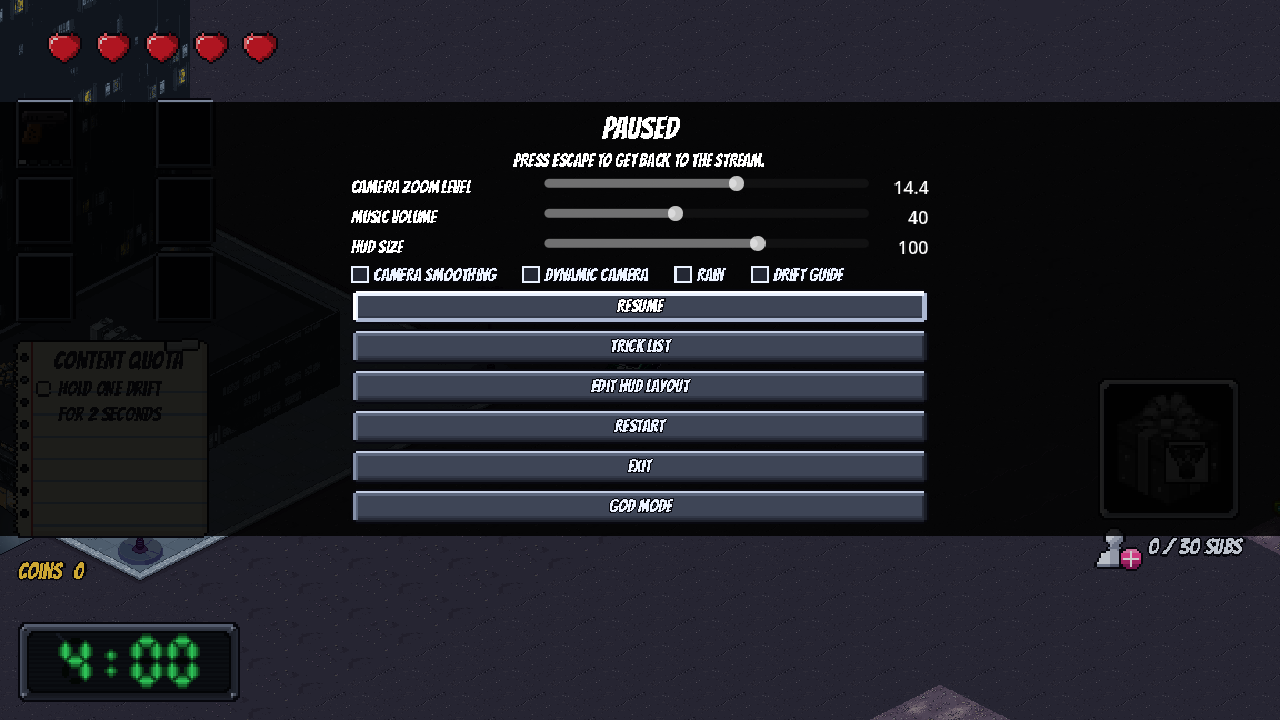
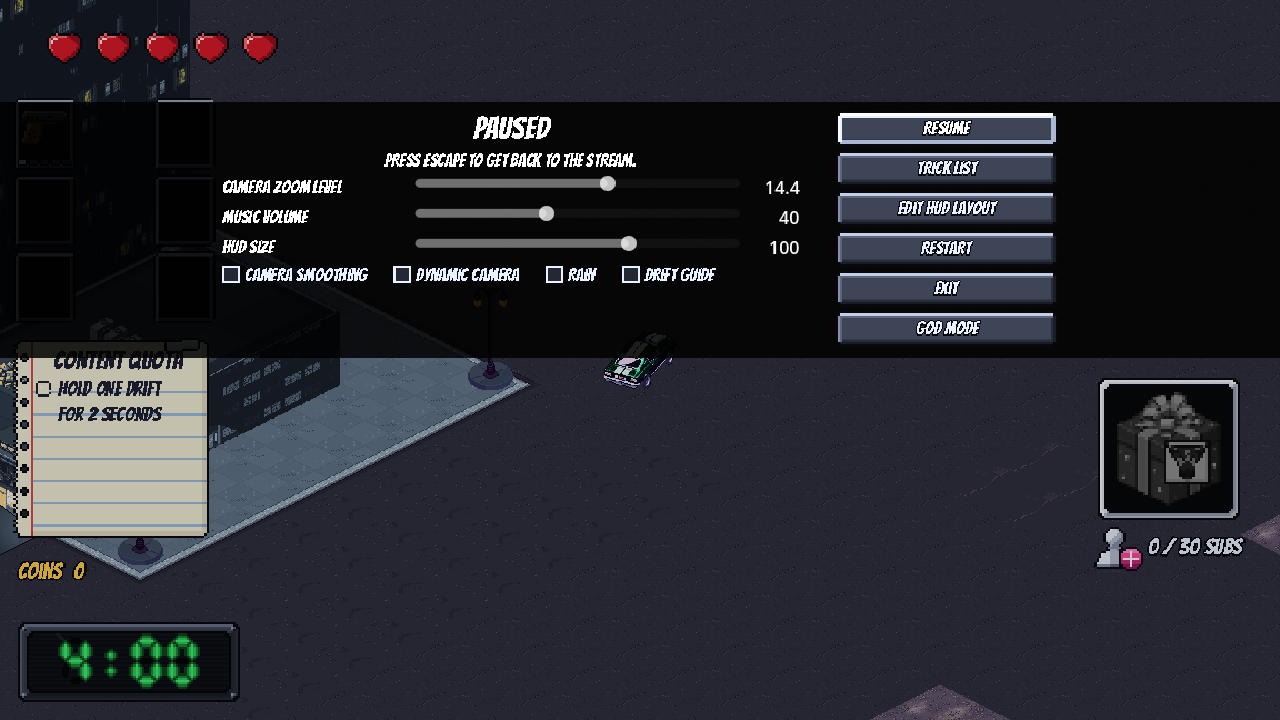
T-537: button column beside the settings, shared-button count 12
Claude-Session: https://claude.ai/code/session_01N2d996YFpSovFyvGmo19CZ

diff --git a/docs/hud-and-menus.md b/docs/hud-and-menus.md
@@ -232,7 +232,7 @@ Tasks T-015, T-093, T-095 and T-124. Escape pauses the whole game and shows the 
 - **Rain checkbox** (T-508; Level design, Decisions, "Rain over the map"): a third checkbox, "Rain" (`rain_label` in `data/pause_text.json`, T-506), in the same row after "Dynamic camera". It shows the saved `rain_enabled` (off by default, T-510), switches the rain over the map at once and saves the choice. The pause screen is the game's only settings screen (the main menu has none), so it is the only place it appears.
 - **Drift Guide checkbox** (T-516; Decisions, "A Drift Guide checkbox"): the label "Drift Guide" (`drift_guide_label` in `data/pause_text.json`), the board's own words, on a fourth checkbox in the pause screen's settings row after "Rain" (T-518, built: `drift_guide_check` in `pause_screen.gd`; it shows the saved `drift_guide_enabled`, off by default, and ticking it saves the choice and switches the guide at once through `GameSettings.notifier`; keyboard and mouse like the other checkboxes; the row of four fits the strip without wrapping). Plain settings voice like its neighbours: no on/off words, no end punctuation. The pause screen is the only settings screen, so it appears nowhere else.
 - **Tuning buttons** (T-124), shown only while "Dynamic camera" is on: "Set min zoom" and "Set max zoom", each followed by the stored value as a number (for example 11.0 and 17.0, the proposed starting values). Pressing one stores the zoom slider's current value as the dynamic camera's zoom at a standstill (min) or at top forward speed (max), saves it, and updates the number. The board can move the slider, press a button and resume to try it. They are a temporary tuning tool for the board, plain labels rather than game text, and are removed once the board has settled the values. Placeholder look: a light frame round a dark fill.
-- **Resume and the stacked buttons** (T-537; Decisions, "Resume on the pause screen, buttons stacked"; the order is a proposal for the playtest): the pause screen's buttons stand in **one vertical column**, centred under the camera controls, one under the other, in the shared small button style, as wide as the settings rows. Order, top to bottom: **Resume** (text "Resume" from `resume_button` in `game/data/pause_text.json`, T-533's text word for word; does what Escape does: saves the settings, closes the screen, the run carries on), **Trick list**, **Edit HUD layout** (only in a run), **Restart**, **Exit**, then **God mode** once unlocked. Why: the safe, most-used action is first and under the thumb; the screens that open and return (Trick list, Edit HUD layout) come next; Restart and Exit, which end the run, sit together at the bottom so they are not hit by accident; the secret entry comes last. **Keyboard:** the focus starts on Resume (it started on Restart before); Up and Down (also Tab and Shift+Tab) walk the column in that order and wrap round. The strip is taller by four buttons' worth (it still ends inside the window at 1280x720 and at 960x540, the smallest size checked; it scales with the window like the HUD).
+- **Resume and the stacked buttons** (T-537; Decisions, "Resume on the pause screen, buttons stacked"; the order is a proposal for the playtest): the pause screen's buttons stand in **one vertical column** at the **right of the settings** (sliders and checkboxes on the left, 200 px column on the right, 32 px between), one under the other, in the shared small button style; side by side keeps the strip as thin as before (QA round 1: stacked under the settings it was too tall). Order, top to bottom: **Resume** (text "Resume" from `resume_button` in `game/data/pause_text.json`, T-533's text word for word; does what Escape does: saves the settings, closes the screen, the run carries on), **Trick list**, **Edit HUD layout** (only in a run), **Restart**, **Exit**, then **God mode** once unlocked. Why: the safe, most-used action is first and under the thumb; the screens that open and return (Trick list, Edit HUD layout) come next; Restart and Exit, which end the run, sit together at the bottom so they are not hit by accident; the secret entry comes last. **Keyboard:** the focus starts on Resume (it started on Restart before); Up and Down (also Tab and Shift+Tab) walk the column in that order and wrap round. The strip keeps its height (about the settings' height; it ends inside the window at 1280x720 and at 960x540, the smallest size checked; it scales with the window like the HUD).
 - **Restart and Exit** (T-327; Decisions, "Restart and Exit on the pause screen"): two buttons, **"Restart"** and **"Exit"** (the board's own names, word for word), in the column at the bottom of the strip (T-537; first a row), in the strip's placeholder button look. The proposals for the playtest: **no "are you sure?" prompt** (keep it quick; a prompt would need a Narrative Theme ticket for its text, so none is built); ~~**the coins collected so far are kept**, as on any loss (banked into the saved total before the run goes)~~ the run is cancelled: its coins are lost and nothing is saved (board, 2026-10-30; Game loop architecture, Decisions, "Restart, Exit or closing cancels the run", T-416); **no time's up screen and no recap** (T-317 and T-320 are not built yet: Restart and Exit never end the run through `run_ended`, so a screen listening for it never sees them; when the recap is built it must be skipped the same way, by the pause screen's own `restart_pressed` and `exit_pressed` signals doing the leaving, and no run is recorded in the runs list); **keyboard:** the focus starts on Restart when the screen opens, the arrow keys or Tab move between the two and Enter or Space presses (Escape still resumes). In a run started from the level creator (T-239): Restart replays the same level and Exit returns to the creator's level list (both cancel the run: its coins are lost). How it is built: `game/docs/hud-and-menus/pause-screen.md`.
 - **Trick list button and panel** (T-386; Decisions, 'A trick list in the pause screen'): a **"Trick list"** button in the button column, under Resume (T-537; first at the left of the Restart and Exit row), its text from `game/data/tutorial_text.json` (`button.trick_list`). Pressing it replaces the strip with a sub-panel in the strip's look, holding the trick list scene and a **"Back"** control. **The trick list (T-491):** on the left the seven tricks as a list (illustration and name; the mouse selects by clicking, the keyboard by moving the focus with the arrow keys); on the right the selected trick shown large: its name, its rule (`trick_rule.<id>`), its **clip with the live key pad** and its **keycap recipe**. The recipe draws each step's keys as keycaps joined with +, the steps joined with an arrow, the tiny note under each step (`trick_recipe.<id>.stepN_note`) and, for a step with no keys, a badge word in capitals (`stepN_badge`); a key where either turn key works carries a small /D tag. Six tricks have a recipe; THREAD THE NEEDLE! shows its clip and rule only. The recipe's structure (the keys per step, the /D marks, which clip each trick shows) is in `game/data/trick_recipes.json`; every word comes from `tutorial_text.json`. Only the selected trick's clip is loaded, and only while the panel is on screen (freed when hidden, T-485's web memory rule). **The live key pad (T-491):** a small W A S D pad in the bottom-right corner of a clip; each key is lit (blush colour, pressed down a little) while the clip's key timeline (`keys_per_frame` in the clip's sheet JSON, T-490) says it is held, in step with the clip's frame. It is one reusable piece (`game/scripts/menu/key_pad.gd`), on the trick list's clip and on slide 2's three clips (slide 1's clip has none). The panel still starts at the strip's top line and fits at 1152 x 648, clear of the HUD timer (`button.back`, same file). The panel is centred, starts at the strip's top line (below the HUD timer and clear of the clock) and fits at 1152 x 648. The run stays paused throughout. Back returns to the pause screen with its sliders, checkboxes and buttons exactly as they were. **Escape while the panel is open goes back to the pause screen instead of resuming** (a proposal for the playtest; a second Escape then resumes as usual). Keyboard: opening puts the focus on Back, Enter or Space presses it, and going back returns the focus to the Trick list button. How it is built: `game/docs/hud-and-menus/pause-screen.md`.
 

diff --git a/tasks/T-537-pause-resume-vertical-buttons.md b/tasks/T-537-pause-resume-vertical-buttons.md
@@ -1,7 +1,7 @@
 ---
 id: T-537
 title: Pause screen: a Resume button, buttons stacked vertically and reordered
-status: in-qa
+status: in-progress
 from: project-lead
 to: ui
 lead: Rails
@@ -16,7 +16,7 @@ documents_affected: [docs/hud-and-menus.md]
 files_to_read_first: [tasks/README.md, docs/hud-and-menus.md, docs/visual-style.md, docs/extended-narrative.md, game/scripts/ui/pause_screen.gd]
 files_expected_to_change: [game/scripts/ui/pause_screen.gd, game/scenes/, game/data/pause_text.json, game/tests/, game/docs/hud-and-menus/, docs/hud-and-menus.md]
 model: sonnet
-qa_rounds: 0
+qa_rounds: 1
 ---
 
 <!--
@@ -62,6 +62,10 @@ Started: the agent is working in C:\solid-carbide-worktrees\T-537.
 
 Built: pause buttons in one column, Resume, Trick list, Edit HUD layout, Restart, Exit (then God mode). QA is checking it.
 
+### 2026-11-06, In QA → In progress
+
+QA round 1 failed: the stacked column makes the pause strip taller than its height limit, and a button-count test needs updating. Back to the agent: the column goes beside the settings so the strip stays short.
+
 ## Style review
 
 Only for art and text tasks: one entry per round of the style loop (`tasks/README.md`, "The style loop"), written by the loop's tool.
@@ -71,3 +75,5 @@ Only for art and text tasks: one entry per round of the style loop (`tasks/READM
 Built. Pause screen buttons now one vertical column (VBox RunButtonsColumn): Resume, Trick list, Edit HUD layout (run only), Restart, Exit, God mode (when unlocked). Resume text 'Resume' = T-533, new key resume_button in game/data/pause_text.json; pressing it calls resume() (same as Escape). Order reason: safe/most-used first; screens that return next; Restart and Exit (end the run) together at bottom, away from accidental hits; secret entry last. Keyboard: focus starts on Resume (was Restart); Up/Down/Tab/Shift+Tab walk the column in order and wrap (explicit focus neighbours, relinked when God mode joins). Proposals for playtest: button gap 4 px (BUTTON_GAP const), buttons full strip-content width (520). Tests: new game/tests/unit/game/test_pause_resume_stack.gd (6 pass: text, resume unpauses, column order and one x, keyboard order, God mode last, fits 720); updated test_pause_restart_exit (focus on Resume). Also green: pause_restart_exit, pause_trick_list, god_mode_page, pause_slider_saves, hud_layout_editor, hud_style, hud_size_slider, drift_guide/rain toggle. Full sets not run (QA). Screenshots in art-archive/T-537/screenshots/: pause_1280.png (1280x720), pause_large.png (2560x1440), pause_small.png (960x540), pause_god.png (God mode entry); fixtures game/tests/fixtures/pause_stack_*.tscn. Docs: docs/hud-and-menus.md Content updated (new bullet, Restart/Trick list wording).
 
 QA round: criteria 1,2,3,4,6 pass (screenshot 1280 checked: inside window, Resume first). Criterion 5 fail (code): full Godot run 2744 tests, 3 failing, all caused by this change: hud/test_shared_button (pause shared buttons now 35, test expects 34, line 100) and game/test_screen_flow strip tests (strip height 354 vs limit 259.2 'thin band'; 436 vs 380 'compact') since the stacked column makes the strip taller. Both reproduced on rerun of the single files. Fix: update the expected count and height limits (proposal for playtest) and record counts in result notes.
+
+QA round 1 fix: button column moved to the right of the settings (new HBox StripColumns: settings left, 200 px column right, 32 px gap; consts BUTTON_COLUMN_WIDTH, COLUMN_GAP, proposals), so the strip height is back within test_screen_flow's limits. test_shared_button pause count 11 -> 12 (Resume). Order and keyboard unchanged. Foreground runs, all green: test_shared_button 12/12, test_screen_flow 28/28, test_pause_resume_stack 6/6, test_pause_restart_exit 4/4, test_pause_trick_list 8/8, test_god_mode_page 8/8, test_pause_slider_saves 8/8, test_hud_layout_editor 13/13. Screenshots in art-archive/T-537/screenshots/ retaken (1280, 2560x1440, 960x540, God mode). docs/hud-and-menus.md updated.
